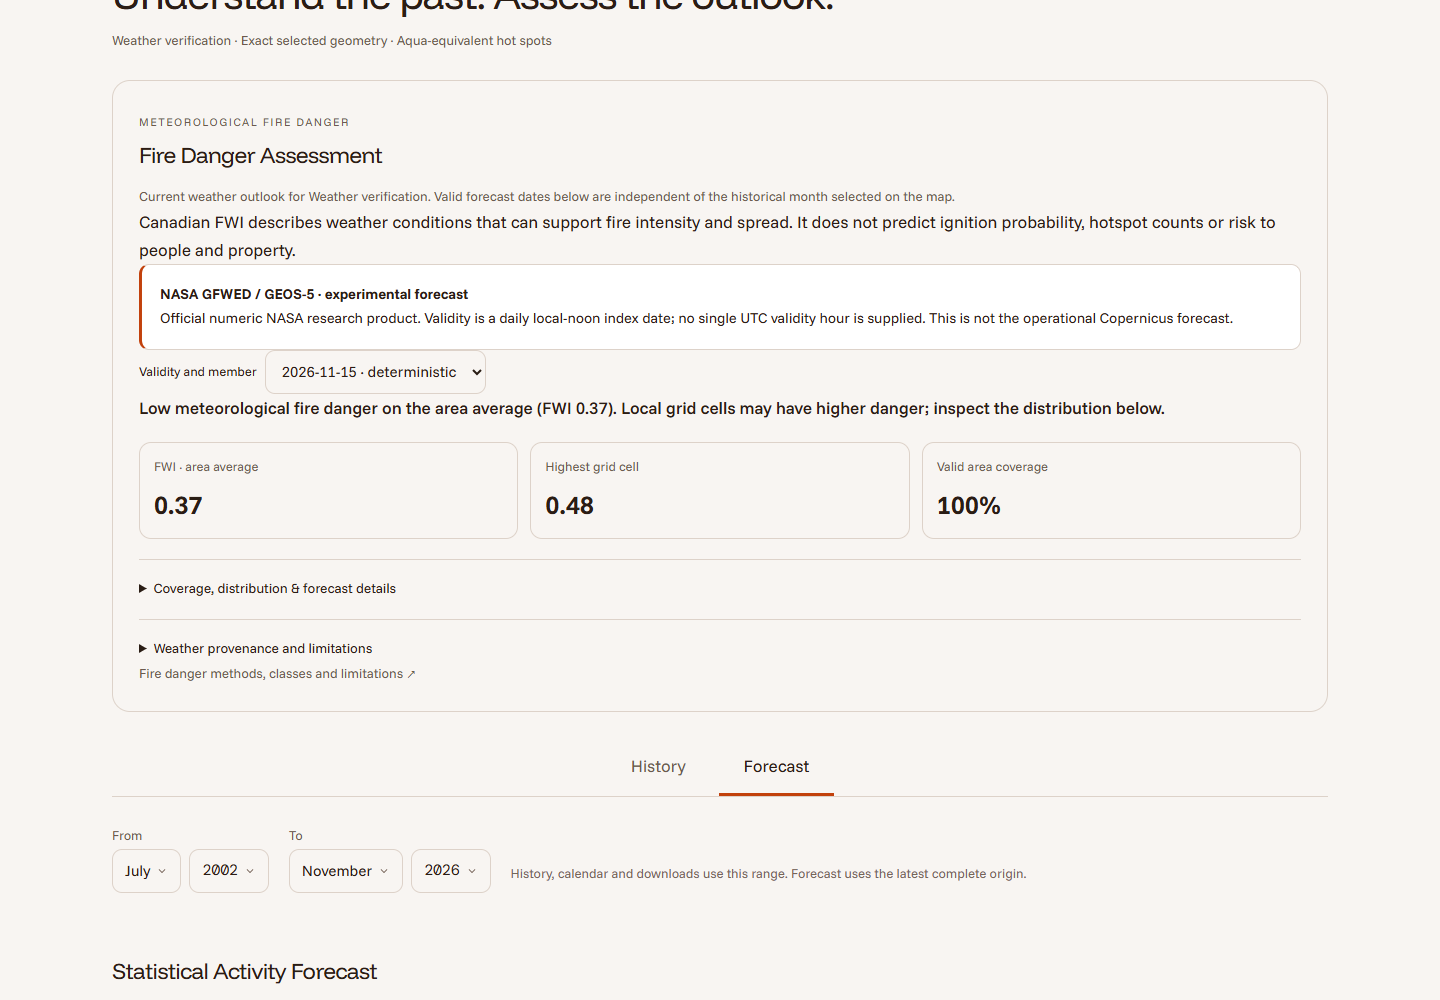
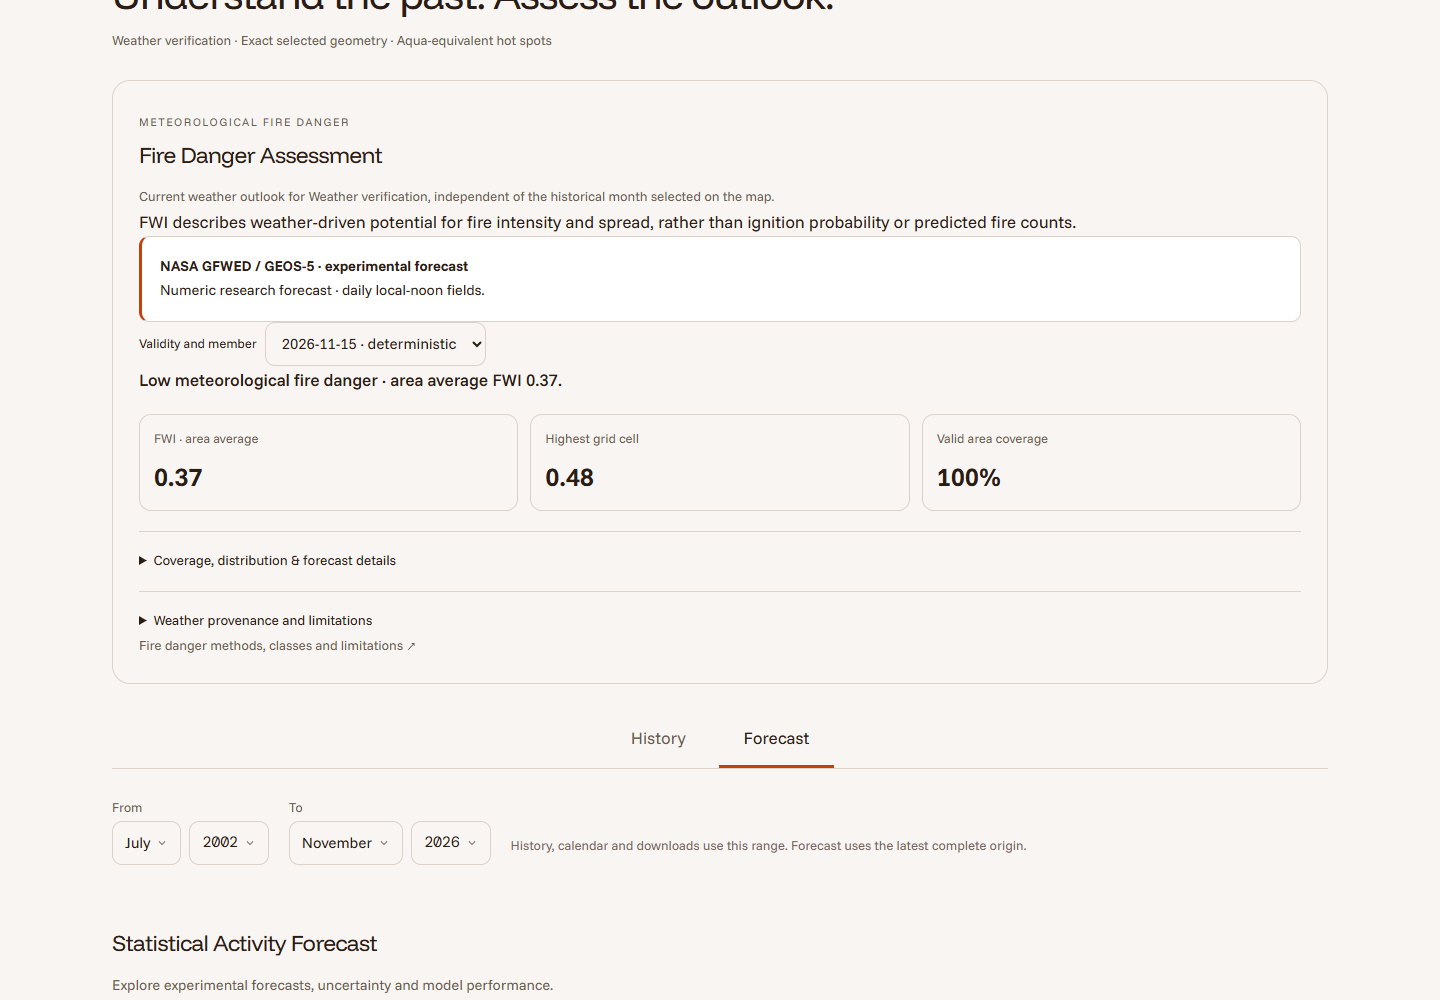
Record final weather layout and complete tour verification

diff --git a/README.md b/README.md
@@ -117,7 +117,7 @@ SVG downloads now include region, period, legend, data source and observed/model
 
 Scientific expansion is documented in [national calibration, real weather, retrospective forecasting and validation](docs/continental-harmonization.md). History opens with the full monthly line chart. Brazil retains its spatial/biome method; **Paraguay, Argentina, Bolivia, Chile, Colombia, Ecuador, Guyana, Peru, Suriname, Uruguay and Venezuela** have separate whole-country reports for April 2018?December 2025. Each country passed predefined aggregate 2022?2023 holdout gates with its own coefficients. Local ecosystems and subnational regions are not validated by these fits.
 
-**Fire Danger Assessment** now reads real NASA GFWED/GEOS-5 experimental NetCDF forecasts. The shipped source was initialized on 12 November 2026 with daily local-noon valid dates 15?17 November. Cached assessments expire automatically and need offline refresh; dates are never relabeled as a fresh forecast. Copernicus seasonal imports remain optional and distinct from operational GWIS products. See [numeric weather provenance and refresh](analytics/FIRE_WEATHER_SOURCES.md) and `/method#fire-danger-risk`.
+**Fire Danger Assessment** leads the full report, above centered History/Forecast tabs. It reads real NASA GFWED/GEOS-5 experimental NetCDF forecasts, with original initialization and daily local-noon validity dates. Render supports custom-polygon assessments and an independent, twice-daily verified data refresh; expired products stay unavailable. See [weather layout, delivery and verification](docs/weather-first-report.md) and [numeric source provenance](analytics/FIRE_WEATHER_SOURCES.md).
 
 **Retrospective activity forecasts** can be requested for an eligible past origin, using the existing Python models and strictly past evidence. Unsupported current numeric activity forecasts remain withheld. Check Python hosting with `node scripts/check-analytics-deployment.mjs https://YOUR-PREVIEW-URL`.
 

diff --git a/docs/weather-first-report.md b/docs/weather-first-report.md
@@ -55,6 +55,13 @@ desktop/mobile placement, centered tabs, real custom-polygon weather, tab change
 and honest unavailable states. CI builds the actual Docker image with weather
 dependencies and checks it under 512 MB.
 
+The initial verification passed 250 frontend tests, 68 Python unit tests and
+8 real-data integration tests, along with TypeScript, ESLint and production
+build. Actual image smoke checks passed History, numeric NASA weather and a
+subsequent History request under 512 MB. Post-request container usage was
+106.2 MiB; this is not a peak-memory or Render throughput benchmark.
+Browser screenshots and checks are in [weather-first-qa](weather-first-qa/).
+
 After merging, Render must deploy the new main image. Existing Vercel URL/token
 settings remain valid. Dispatch **Refresh official NASA weather** once, inspect
 its successful run and the `weather-data` release asset, then verify production

diff --git a/docs/render-analytics.md b/docs/render-analytics.md
@@ -62,5 +62,5 @@ Sources: [Render Free](https://render.com/docs/free),
 Remove the two Vercel variables and redeploy to restore static-only fallback;
 or revert the service's last deployment in Render. Preserve matching map/service
 metadata. The existing API rejects mismatched data versions rather than mixing
-scientific releases. To add weather later, deploy its verified data/dependencies
-and refresh pipeline separately if choosing a different provider.
+scientific releases. To switch weather providers, deploy matching verified
+data, dependencies and a refresh pipeline for that provider.
